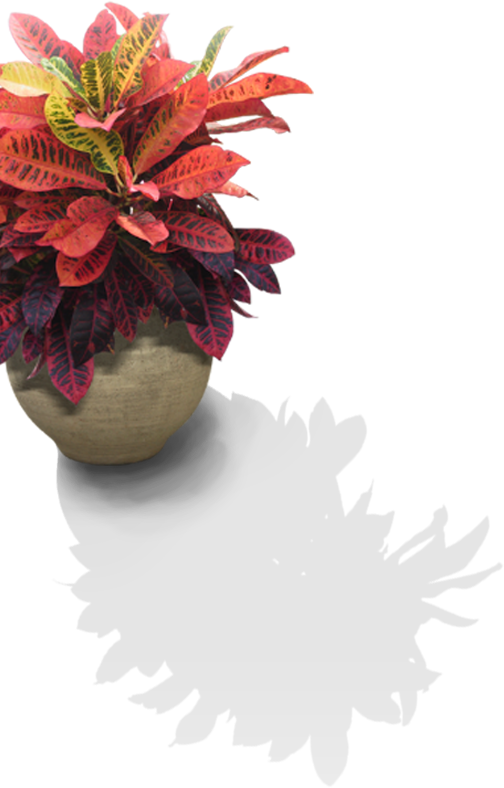
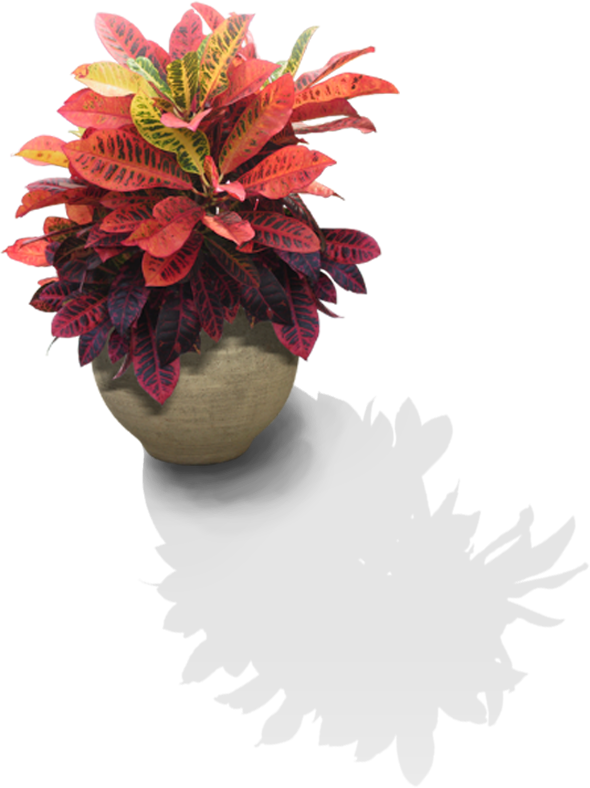
drzwi update

diff --git a/appokno/appdrzwi.html b/appokno/appdrzwi.html
@@ -12,24 +12,14 @@
     <script src="https://ajax.googleapis.com/ajax/libs/jquery/3.2.1/jquery.min.js"></script>
     <script type="text/javascript" src="css/jscolor.js"></script>
   
-    <script>
-        $(document).ready(function(){
-    $("#oknobttn").click(function(){
-    $("#drzwi").hide();
-    $("#oknod").hide();
-    $("#drzwid").hide();     
-    $("#okno").show();
-   });
-});
-    </script>
 
         <script>
         $(document).ready(function(){
     $("#drzwibttn").click(function(){
-    $("#okno").hide();
-    $("#oknod").hide();
-    $("#drzwid").hide();    
+    $("#drzwid").hide(); 
+    $("#colordd").hide();    
     $("#drzwi").show();
+    $("#colord").show();    
    });
 });
     </script>
@@ -37,25 +27,36 @@
         <script>
         $(document).ready(function(){
     $("#drzwidbttn").click(function(){
-    $("#okno").hide();
-    $("#oknod").hide();
-    $("#drzwid").show();    
+    $("#drzwid").show(); 
+    $("#colordd").show();
     $("#drzwi").hide();
+    $("#colord").hide(); 
    });
 });
     </script>
   
-            <script>
+                <script>
         $(document).ready(function(){
-    $("#oknodbttn").click(function(){
-    $("#okno").hide();
-    $("#oknod").show();
-    $("#drzwid").hide();    
-    $("#drzwi").hide();
+    $("#drzwibttn1").click(function(){
+    $("#drzwid").hide(); 
+    $("#colordd").hide();    
+    $("#drzwi").show();
+    $("#colord").show();    
    });
 });
-                
     </script>
+
+        <script>
+        $(document).ready(function(){
+    $("#drzwidbttn1").click(function(){
+    $("#drzwid").show(); 
+    $("#colordd").show();
+    $("#drzwi").hide();
+    $("#colord").hide(); 
+   });
+});
+    </script>
+    
 </head>
 <body>
     
@@ -63,36 +64,12 @@
         <div class="row">
             <div class="col-xl-6 col-lg-8 col-md-10 col-sm-12">
                 
-                <div class="card text-center">
-  <div class="card-header">
-    <ul class="nav nav-tabs card-header-tabs">
-      <li class="nav-item">
-        <a class="nav-link active" href="#">Active</a>
-      </li>
-      <li class="nav-item">
-        <a class="nav-link" href="#">Link</a>
-      </li>
-      <li class="nav-item">
-        <a class="nav-link disabled" href="#">Disabled</a>
-      </li>
-    </ul>
-  </div>
-  <div class="card-block">
-    <h4 class="card-title">Special title treatment</h4>
-    <p class="card-text">With supporting text below as a natural lead-in to additional content.</p>
-    <a href="#" class="btn btn-primary">Go somewhere</a>
-  </div>
-</div>
                 <div>
                     <img src="sciana2.png" class="sciana" id="sciana">
                 </div>
 
                <div>
                     <img src="podloga1.png" class="podloga">
-                </div>
-
-                <div>
-                    <img src="OKNO1.png" class="okno" id="okno">
                 </div>
 
                 <div>
@@ -104,49 +81,111 @@
                 </div>
                 
                 <div>
-                    <img src="okno%20drewno.png" class="oknod" id="oknod">
+                    <img src="kwiat.png" class="roslinka" id="roslinka">
                 </div>
                 
                 <div>
-                    <img src="ROSLINKA.png" class="roslinka" id="roslinka">
+                    <img src="kwiat1.png" class="roslinka2" id="roslinka23">
                 </div>
                 
-                <div>
-                    <img src="roslinka3.png" class="roslinka2" id="roslinka23">
-                </div>
-                
-                <div class="rolety">
-                    <img src="prawa%20roletka.png" class="proleta" id="proleta">
-                    <img src="prawa%20roletka.png" class="lroleta" id="lroleta">
-                </div>
                 </div>
         </div>
         
-        <div class="row" id="dol">
-                <div class="col-12">
-                    <button class="btn btn-secondary" id="oknobttn">Okno</button>       
-
-                    <button class="btn btn-secondary" id="drzwibttn">Drzwi</button> 
+        <div id="w991">
+        <div class="row align-items-end">
+               
+                <div class="col-6 offset-6">
                     
-                    <button class="btn btn-secondary" id="oknodbttn">Okno Drewniana Okleina</button>       
-
-                    <button class="btn btn-secondary" id="drzwidbttn">Drzwi Drewniana Okleina</button> 
-
-                    <button class="jscolor
-                        {valueElement:'null',styleElement:'okno',value:'ff6699'}"
-                        style="border:2px solid black; width:50px; height:20px;">
+                    <div class="card" style="width: 20rem;">
+                        <div class="card-block">
+                            <h6 class="card-title">Wybierz Element</h6>
+                                <button class="btn btn-secondary" id="drzwibttn">PCV</button>       
+                                <button class="btn btn-secondary" id="drzwidbttn">Drewno</button> 
+                            
+                        </div>
+                    </div>  
+                    <br>
+                </div>   
+        </div>
+        
+        <div class="row align-items-end">
+                <div class="col-6 offset-6">
+                     <div class="card" style="width: 20rem;">
+                        <div class="card-block">
+                            <h6 class="card-title">Wybierz Kolor</h6>
+                    <button class="btn btn-secondary jscolor
+                        {valueElement:'null',styleElement:'drzwi',value:'ffffff'}"
+                        id="colord"> Drzwi
                     </button>
 
-                    <button class="jscolor
-                        {valueElement:'null',styleElement:'drzwi',value:'ff6699'}"
-                        style="border:2px solid black; width:50px; height:20px;">
+                    <button class="btn btn-secondary jscolor
+                        {valueElement:'null',styleElement:'drzwid',value:'ffffff'}"
+                        id="colordd"> Drzwi
                     </button>
+                            
+                    <button class="btn btn-secondary jscolor
+                        {valueElement:'null',styleElement:'sciana',value:'#a2a8b2'}"
+                        > Sciana
+                    </button>
+                              </div>
+                    </div>
                 </div>
             </div>
-         </div>  
-      
-    
-    
+        </div>
+         
+     <div id="w990">
+        <div class="row">
+               
+                <div class="col-12">
+                    
+                    <div class="card">
+                        <div class="card-block">
+                            <h6 class="card-title">Wybierz Element</h6>
+                                <button class="btn btn-secondary" id="drzwibttn1">PCV</button>       
+                                <button class="btn btn-secondary" id="drzwidbttn1">Drewno</button> 
+                            
+                        </div>
+                    </div>  
+                    <br>
+                </div>   
+        </div>
+        
+                <div class="row">
+                <div class="col-12">
+                     <div class="card">
+                        <div class="card-block">
+                            <h6 class="card-title">Wybierz Kolor</h6>
+                    <button class="btn btn-secondary jscolor
+                        {valueElement:'null',styleElement:'okno',value:'ffffff'}"
+                        id="coloro"> Okno
+                    </button>
+
+                    <button class="btn btn-secondary jscolor
+                        {valueElement:'null',styleElement:'oknod',value:'ffffff'}"
+                        id="colorod"> Okno
+                    </button>
+                    
+                      <button class="btn btn-secondary jscolor
+                        {valueElement:'null',styleElement:'proleta',value:'#92a8b2'}"
+                        > Prawa Roleta
+                    </button>
+                    
+                           <button class="btn btn-secondary jscolor
+                        {valueElement:'null',styleElement:'lroleta',value:'#92a8b2'}"
+                                   >
+                         Lewa Roleta
+                    </button>
+                            
+                             <button class="btn btn-secondary jscolor
+                        {valueElement:'null',styleElement:'sciana',value:'#a2a8b2'}"
+                        > Sciana
+                    </button>
+                              </div>
+                    </div>
+                </div>
+            </div>
+        </div> 
+    </div>
     
     
 </body>

diff --git a/appokno/css/style.css b/appokno/css/style.css
@@ -27,7 +27,7 @@ body{
     z-index: 2;
     background-color: burlywood;
     box-shadow: 0px 0px 10px dimgray;
-    display: none;
+  
     
 }
 
@@ -46,7 +46,7 @@ body{
     margin-top: 60%;
     left: 2%;
     height: auto;
-    width:18%;
+    width:22%;
     z-index: 2;
     
 }
